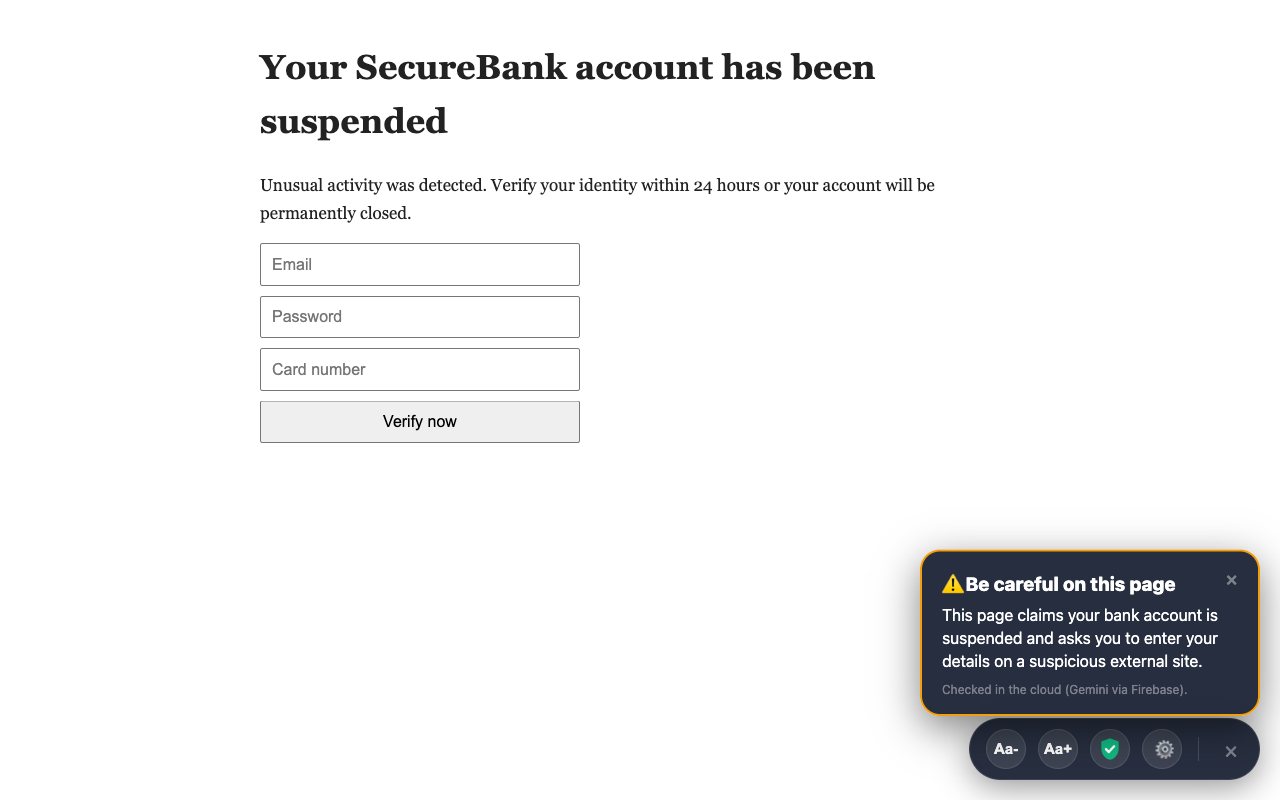
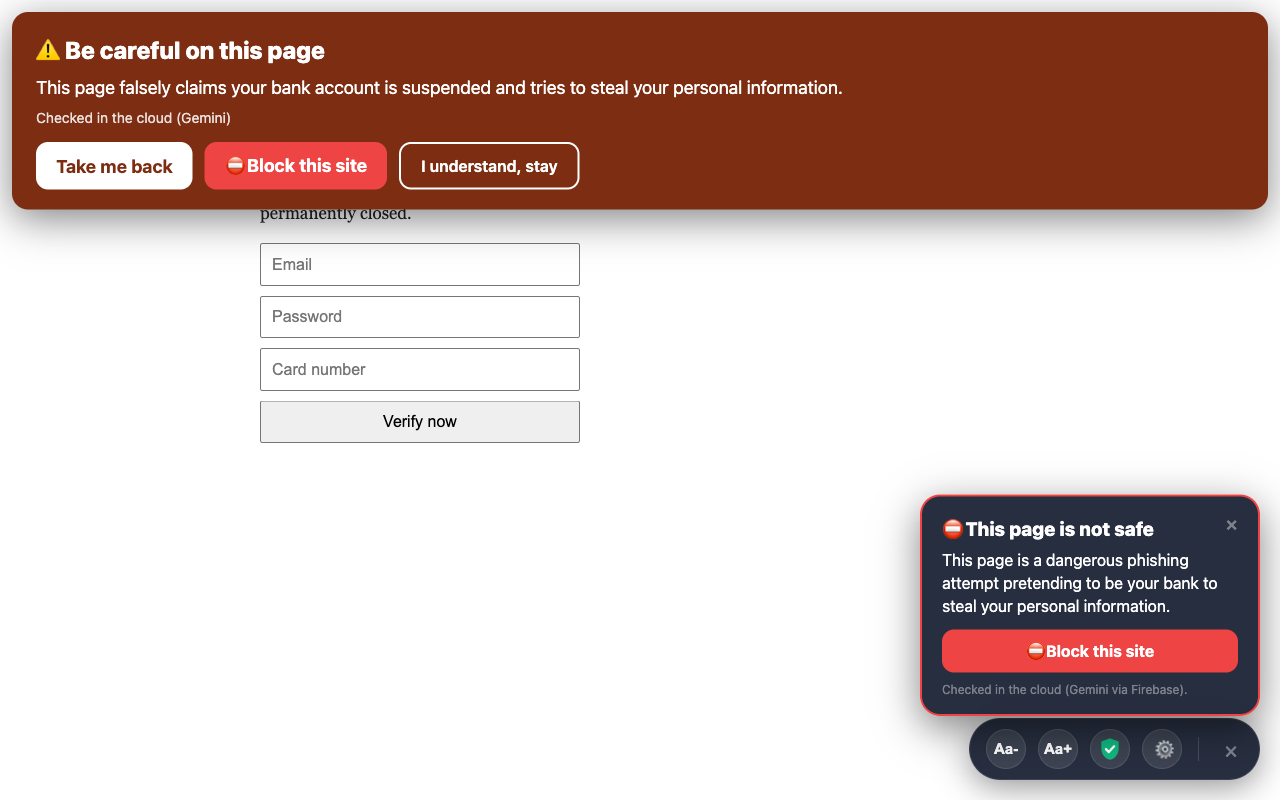
Block this site from scam/phishing warnings; README: where data lives
- Warning banner, toolbar result card and popup result get a 'Block this site' button for warn/block
  verdicts; the service worker adds the tab's real host to Blocked Sites and reloads it
- README: table of every place data is stored or sent and which Firebase service (if any) is used;
  Family sharing is keyed to the Firebase Auth uid, not the extension ID; Export/Import is a local
  JSON file only

diff --git a/background.js b/background.js
@@ -39,6 +39,14 @@ chrome.runtime.onMessage.addListener((message, sender, sendResponse) => {
         return true;
     }
 
+    if (message.command === "blockSite") {
+        // From a scam/phishing warning: add the site to Blocked Sites, then reload so the block page shows.
+        // Use the tab's real URL when the request comes from a page, so a page can't name another site.
+        blockSiteFromWarning(sender.tab ? sender.tab.url : message.url, sender.tab ? sender.tab.id : message.tabId)
+            .then(sendResponse, (err) => sendResponse({ status: "error", message: err.message }));
+        return true;
+    }
+
     if (message.command === "openOptions") {
         chrome.runtime.openOptionsPage();
         return true;
@@ -74,6 +82,19 @@ chrome.runtime.onMessage.addListener((message, sender, sendResponse) => {
         return true;
     }
 });
+
+async function blockSiteFromWarning(url, tabId) {
+    const host = new URL(url).hostname.replace(/^www\./, '').toLowerCase();
+    if (!host || !/^https?:/.test(url)) throw new Error('This page cannot be blocked.');
+    const { blacklist = [] } = await chrome.storage.local.get('blacklist');
+    if (!blacklist.includes(host)) {
+        blacklist.push(host);
+        await chrome.storage.local.set({ blacklist });
+    }
+    await updateBlockingRules();
+    if (tabId) chrome.tabs.reload(tabId);
+    return { status: "success", host };
+}
 
 let activeBypasses = {}; // "tabId_domain" -> expirationTime
 

diff --git a/content_filter.js b/content_filter.js
@@ -99,11 +99,20 @@
         back.textContent = 'Take me back';
         back.style.cssText = 'font:700 18px system-ui;padding:12px 20px;border-radius:12px;border:0;background:#fff;color:#7c2d12;cursor:pointer;';
         back.onclick = () => (history.length > 1 ? history.back() : (location.href = 'about:blank'));
+        const block = document.createElement('button');
+        block.textContent = '⛔ Block this site';
+        block.style.cssText = 'font:700 18px system-ui;padding:12px 20px;border-radius:12px;border:0;background:#ef4444;color:#fff;cursor:pointer;';
+        block.onclick = async () => {
+            block.disabled = true;
+            block.textContent = 'Blocking…';
+            const res = await chrome.runtime.sendMessage({ command: 'blockSite' }).catch(() => null);
+            if (!res || res.status !== 'success') { block.disabled = false; block.textContent = '⛔ Block this site'; }
+        };
         const stay = document.createElement('button');
         stay.textContent = 'I understand, stay';
         stay.style.cssText = 'font:600 16px system-ui;padding:12px 20px;border-radius:12px;border:2px solid #fff;background:transparent;color:#fff;cursor:pointer;';
         stay.onclick = () => host.remove();
-        row.append(back, stay);
+        row.append(back, block, stay);
         box.append(title, reason, engine, row);
         shadow.appendChild(box);
         document.documentElement.appendChild(host);

diff --git a/popup_ai.js b/popup_ai.js
@@ -37,6 +37,20 @@
         engine.className = 'engine';
         engine.textContent = (ENGINE_LABEL[v.engine] || ENGINE_LABEL.none)() + (v.escalated ? ` ${t('engine_escalated', '(double-checked in the cloud)')}` : '');
         out.append(head, reason, engine);
+        if (v.verdict === 'warn' || v.verdict === 'block') {
+            const blockBtn = document.createElement('button');
+            blockBtn.className = 'ai-block-btn';
+            blockBtn.textContent = t('ai_block_site', '⛔ Block this site');
+            blockBtn.onclick = async () => {
+                blockBtn.disabled = true;
+                const [tab] = await chrome.tabs.query({ active: true, currentWindow: true });
+                const res = tab ? await chrome.runtime.sendMessage({ command: 'blockSite', url: tab.url, tabId: tab.id }).catch(() => null) : null;
+                blockBtn.textContent = res && res.status === 'success'
+                    ? `${t('ai_blocked_site', '✅ Blocked')}: ${res.host}`
+                    : t('ai_block_failed', 'Could not block this page');
+            };
+            out.appendChild(blockBtn);
+        }
         if (v.aiError || v.error) {
             const details = document.createElement('div');
             details.className = 'engine';

diff --git a/senior_overlay.js b/senior_overlay.js
@@ -350,6 +350,19 @@
             body.textContent = content.text; // AI text is never inserted as HTML
             card.appendChild(body);
         }
+        if (content.verdict === 'warn' || content.verdict === 'block') {
+            const blockBtn = document.createElement('button');
+            blockBtn.textContent = '⛔ Block this site';
+            blockBtn.style.cssText = `margin-top: 12px; width: 100%; padding: 11px 14px; border: 0; border-radius: 12px;
+                background: #ef4444; color: #fff; font: 700 16px -apple-system, BlinkMacSystemFont, "Segoe UI", Roboto, sans-serif; cursor: pointer;`;
+            blockBtn.onclick = async () => {
+                blockBtn.disabled = true;
+                blockBtn.textContent = 'Blocking…';
+                const res = await chrome.runtime.sendMessage({ command: 'blockSite' }).catch(() => null);
+                if (!res || res.status !== 'success') { blockBtn.disabled = false; blockBtn.textContent = '⛔ Block this site'; }
+            };
+            card.appendChild(blockBtn);
+        }
         if (content.meta) {
             const meta = document.createElement('div');
             meta.style.cssText = `font-size: 12px; margin-top: 8px; color: ${theme.mutedColor};`;

diff --git a/popup.html b/popup.html
@@ -288,6 +288,9 @@
         .ai-check-result.block { border-color: #ef4444; background: rgba(239, 68, 68, .12); }
         .ai-check-result .verdict { font-size: 18px; font-weight: 800; margin-bottom: 4px; }
         .ai-check-result .engine { font-size: 12px; color: var(--text-muted); margin-top: 6px; }
+        .ai-block-btn { margin-top: 10px; width: 100%; padding: 11px; border: 0; border-radius: 12px; background: #ef4444; color: #fff;
+            font-size: 15px; font-weight: 800; cursor: pointer; }
+        .ai-block-btn:disabled { opacity: .8; cursor: default; }
         .ai-mode-row { display: flex; justify-content: space-between; align-items: center; font-size: 12px; color: var(--text-muted); }
         .ai-mode-row select { background: var(--bg-accent); color: var(--text-main); border: 1px solid var(--border); border-radius: 8px; padding: 4px 8px; font-size: 12px; }
 

diff --git a/README.md b/README.md
@@ -75,6 +75,7 @@ the default path.
 | A stop word appears on a page | The page is covered ("checking…") and the AI judges the word in context: **block**, **warn** or **allow** | Nano first, cloud fallback |
 | A page asks for a password or card number, or posts a form to another site | One background check; a confident scam/phishing verdict shows a large warning banner (never a hard block) | Nano first, cloud fallback |
 | Popup: **🛡 Is this page safe?** | Plain-language answer for the open tab | Nano first, cloud fallback |
+| Any scam/phishing warning or "not safe" result | **⛔ Block this site** adds the site to Blocked Sites and reloads, so the block page appears | – |
 | Senior Assist toolbar: round **🛡** button | The same check from the on-page toolbar (next to Aa−/Aa+), with the answer in a card on the page | Nano first, cloud fallback |
 | Blocked page | Shows the AI's reason ("Blocked: gambling. …") and where it was checked | – |
 | Family: **Write summary** | Weekly plain-language summary of blocks and warnings | Nano first, cloud fallback |
@@ -172,6 +173,43 @@ flowchart LR
   (200 entries, no page text).
 - The SDK runs in an **offscreen document** (`DOM_PARSER` reason), bundled with esbuild because Manifest V3
   forbids remote code. Auth uses `firebase/auth/web-extension`, which never loads remote scripts.
+
+## Where your data lives
+
+Most of Senior SafeSurf never touches a server. This table lists every place data is stored or sent, and
+**whether a Firebase service is involved**.
+
+| What | Where it's stored or sent | Firebase? | When |
+|---|---|---|---|
+| Settings, blocked sites, stop words, speed dial, AI switches | `chrome.storage.local` on this computer | **No** | Always |
+| Master password | `chrome.storage.local`, as a PBKDF2-SHA256 hash | **No** | If set |
+| Block log (last 200 blocks/warnings: time, site, type, engine, reason) | `chrome.storage.local` | **No** | Always |
+| **Export JSON / Import JSON** (Blocked Sites page) | A `.json` file you download and pick again later. It contains only the blocked-sites list | **No.** There is no cloud backup | When you click |
+| On-device AI checks | Gemini Nano inside Chrome | **No** network at all (Firebase AI Logic SDK, on-device mode) | Nano available, mode Local or Hybrid |
+| Cloud AI checks | Page snapshot (≤ 3 KB) → `senior-safesurf.web.app` bridge → Gemini | **Yes:** AI Logic, App Check, Hosting. Nothing is stored | Only with cloud consent |
+| AI tuning values and the Pexels key | Read from Remote Config | **Yes:** Remote Config (read-only) | When the engine starts |
+| Background photos | Pexels API → photo URLs | Key from Remote Config; photos come from Pexels | When you open Appearance or a block page |
+| **Family sharing** (optional, off by default) | Firestore `families/{uid}/events` | **Yes:** Authentication + Firestore | Only after signing in to a family account |
+
+### How Family sharing identifies you
+
+Sharing is tied to the **Firebase Authentication account** (email and password) you create in **Settings ›
+Family**, not to the extension or the computer:
+
+- Each account gets a Firebase user ID (`uid`). Events are written to `families/{uid}/events/{autoId}`.
+- The extension ID isn't used for storage. It's only used so the cloud bridge answers Senior SafeSurf and
+  nothing else.
+- Any Chrome where you sign in with the same account reads and writes the same log. That's how a family member
+  sees the parent's blocks.
+- `firestore.rules` lets only that signed-in account read its own events. Entries can be added but never
+  edited or deleted, and each one is checked for type and size.
+- Signing out stops sharing on that computer. The local log keeps working.
+- Settings, blocked sites and stop words are **not** synced. Use Export/Import to move the blocked-sites list
+  between computers.
+
+Status: the code and rules are in this repository. Sharing needs Firestore and Email/Password sign-in enabled
+in the Firebase project (see **Setup › Firebase project**). Until then, **Sign in** shows "Email/password
+sign-in is not enabled for this Firebase project yet", and everything else works.
 
 ## Family sharing (Firestore)
 
